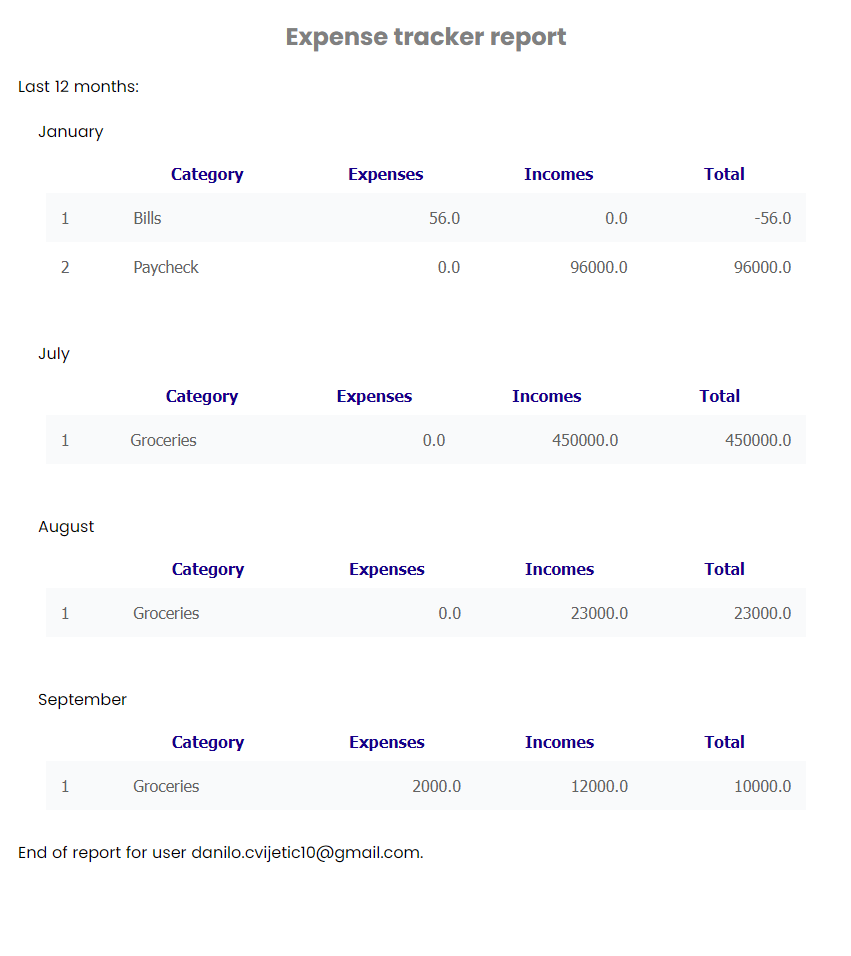
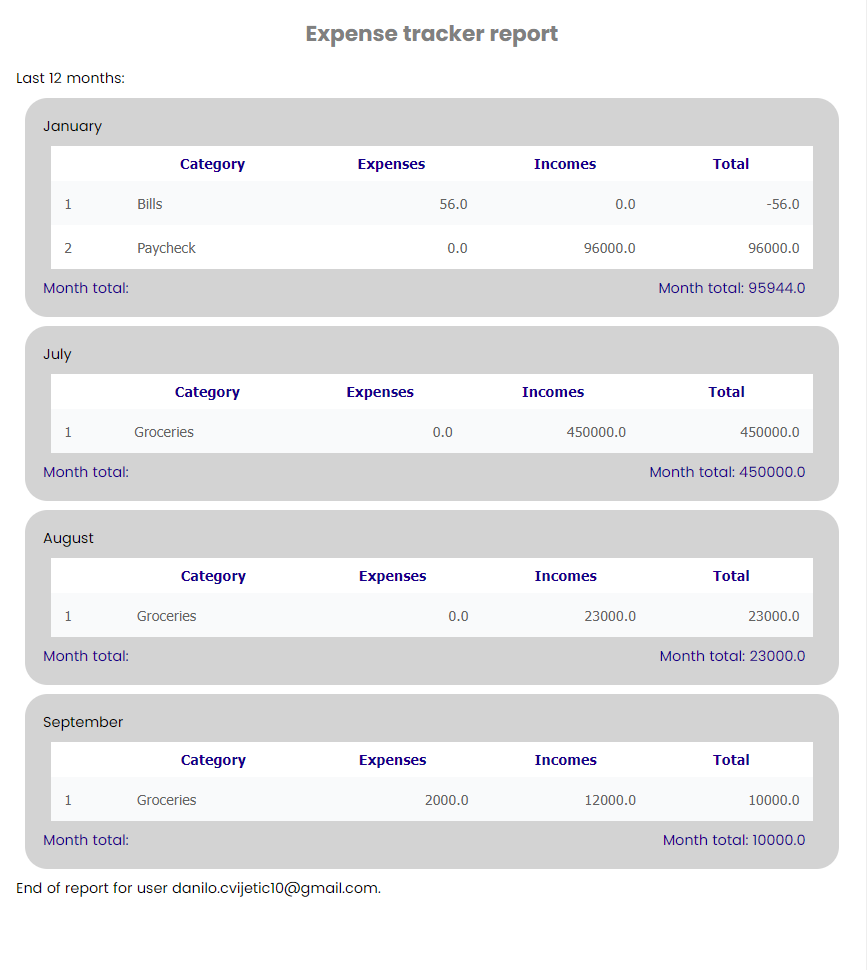
feat: added montlhy sum to report

diff --git a/tracker/src/main/resources/templates/report.html b/tracker/src/main/resources/templates/report.html
@@ -9,8 +9,8 @@
         body {margin: 20px; font-family: "Poppins", sans-serif;}
        .header {margin: 20px;}
        .header-text {text-align: center; color: gray;}
-       .month {padding: 20px;}
-       .number {text-align:right;}
+       .month {padding: 20px; background-color: lightgray; border-radius:25px; margin: 10px;}
+
        table {
        border-collapse: collapse;
        font-family: Tahoma, Geneva, sans-serif;
@@ -22,6 +22,7 @@
     table td {
        padding: 15px;
     }
+    .number {text-align:right;}
     table th{
        padding: 10px;
        color: darkblue;
@@ -43,8 +44,15 @@
     table tbody tr:nth-child(odd) {
        background-color: #ffffff;
     }
-    </style>
-</head>
+    .month-total {
+        width: 98%;
+        color: darkblue;
+
+        display: flex;
+        justify-content: space-between;
+    }
+
+    </style></head>
 <body>
 
 <div class="header">
@@ -70,6 +78,11 @@
                 <td class="number" th:text="${category.total}"></td>
             </tr>
         </table>
+        <div class="month-total">
+            <span>Month total:</span>
+            <span th:text="'Month total: ' + ${month.total}"></span>
+        </div>
+
     </div>
 </div>
 <div class="footer"></div>

diff --git a/tracker/src/main/java/com/example/tracker/service/ReportServiceImpl.java b/tracker/src/main/java/com/example/tracker/service/ReportServiceImpl.java
@@ -32,7 +32,8 @@ public class ReportServiceImpl implements ReportService {
         Map<String, Object> data = new HashMap<>();
         List<MonthData> months = new ArrayList<>();
         for (Map.Entry<String, List<ReportTableRow>> entry : this.getReportByMonthForYear(userId, year).entrySet()){
-            months.add(new MonthData(numberToMonth(Integer.parseInt(entry.getKey())), entry.getValue()));
+            double monthTotal = entry.getValue().stream().map(x -> Double.parseDouble(x.getTotal())).reduce(0.0, Double::sum);
+            months.add(new MonthData(numberToMonth(Integer.parseInt(entry.getKey())),String.valueOf(monthTotal), entry.getValue()));
         }
         data.put("months", months);
         data.put("user", this.userRepository.findById(userId).orElseThrow(()-> new ElementNotFoundException("User not found!")).getEmail());

diff --git a/tracker/src/main/java/com/example/tracker/utils/MonthData.java b/tracker/src/main/java/com/example/tracker/utils/MonthData.java
@@ -9,5 +9,6 @@ import java.util.List;
 @AllArgsConstructor
 public class MonthData {
     private String name;
+    private String total;
     private List<ReportTableRow> categories;
 }
